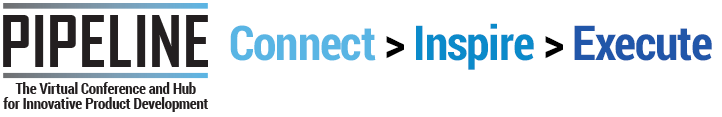
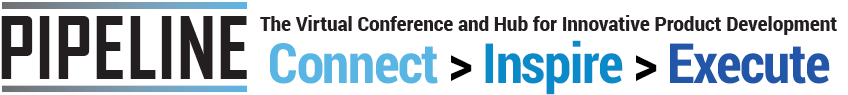
Change header image and link it.

diff --git a/sass/_site.scss b/sass/_site.scss
@@ -29,7 +29,7 @@ body {
   @media screen and (min-width: 480px) {
     background-image: url('../img/header-wide.png');
     padding: {
-      top: 16.2%;
+      top: 11.2%;
     }
   }
 }

diff --git a/header.php b/header.php
@@ -24,7 +24,7 @@
 	<header id="masthead" class="site-header" role="banner">
         <div class="header-content">
             <div class="site-branding">
-                <h1 class="site-title bg-size"><a href="<?php echo esc_url( home_url( '/' ) ); ?>" rel="home"><?php bloginfo( 'name' ); ?></a></h1>
+                <a href="<?php echo esc_url( home_url( '/' ) ); ?>" rel="home"><h1 class="site-title bg-size"><?php bloginfo( 'name' ); ?></h1></a>
                 <h2 class="site-description"><?php bloginfo( 'description' ); ?></h2>
             </div>
             <aside class="announcements">
